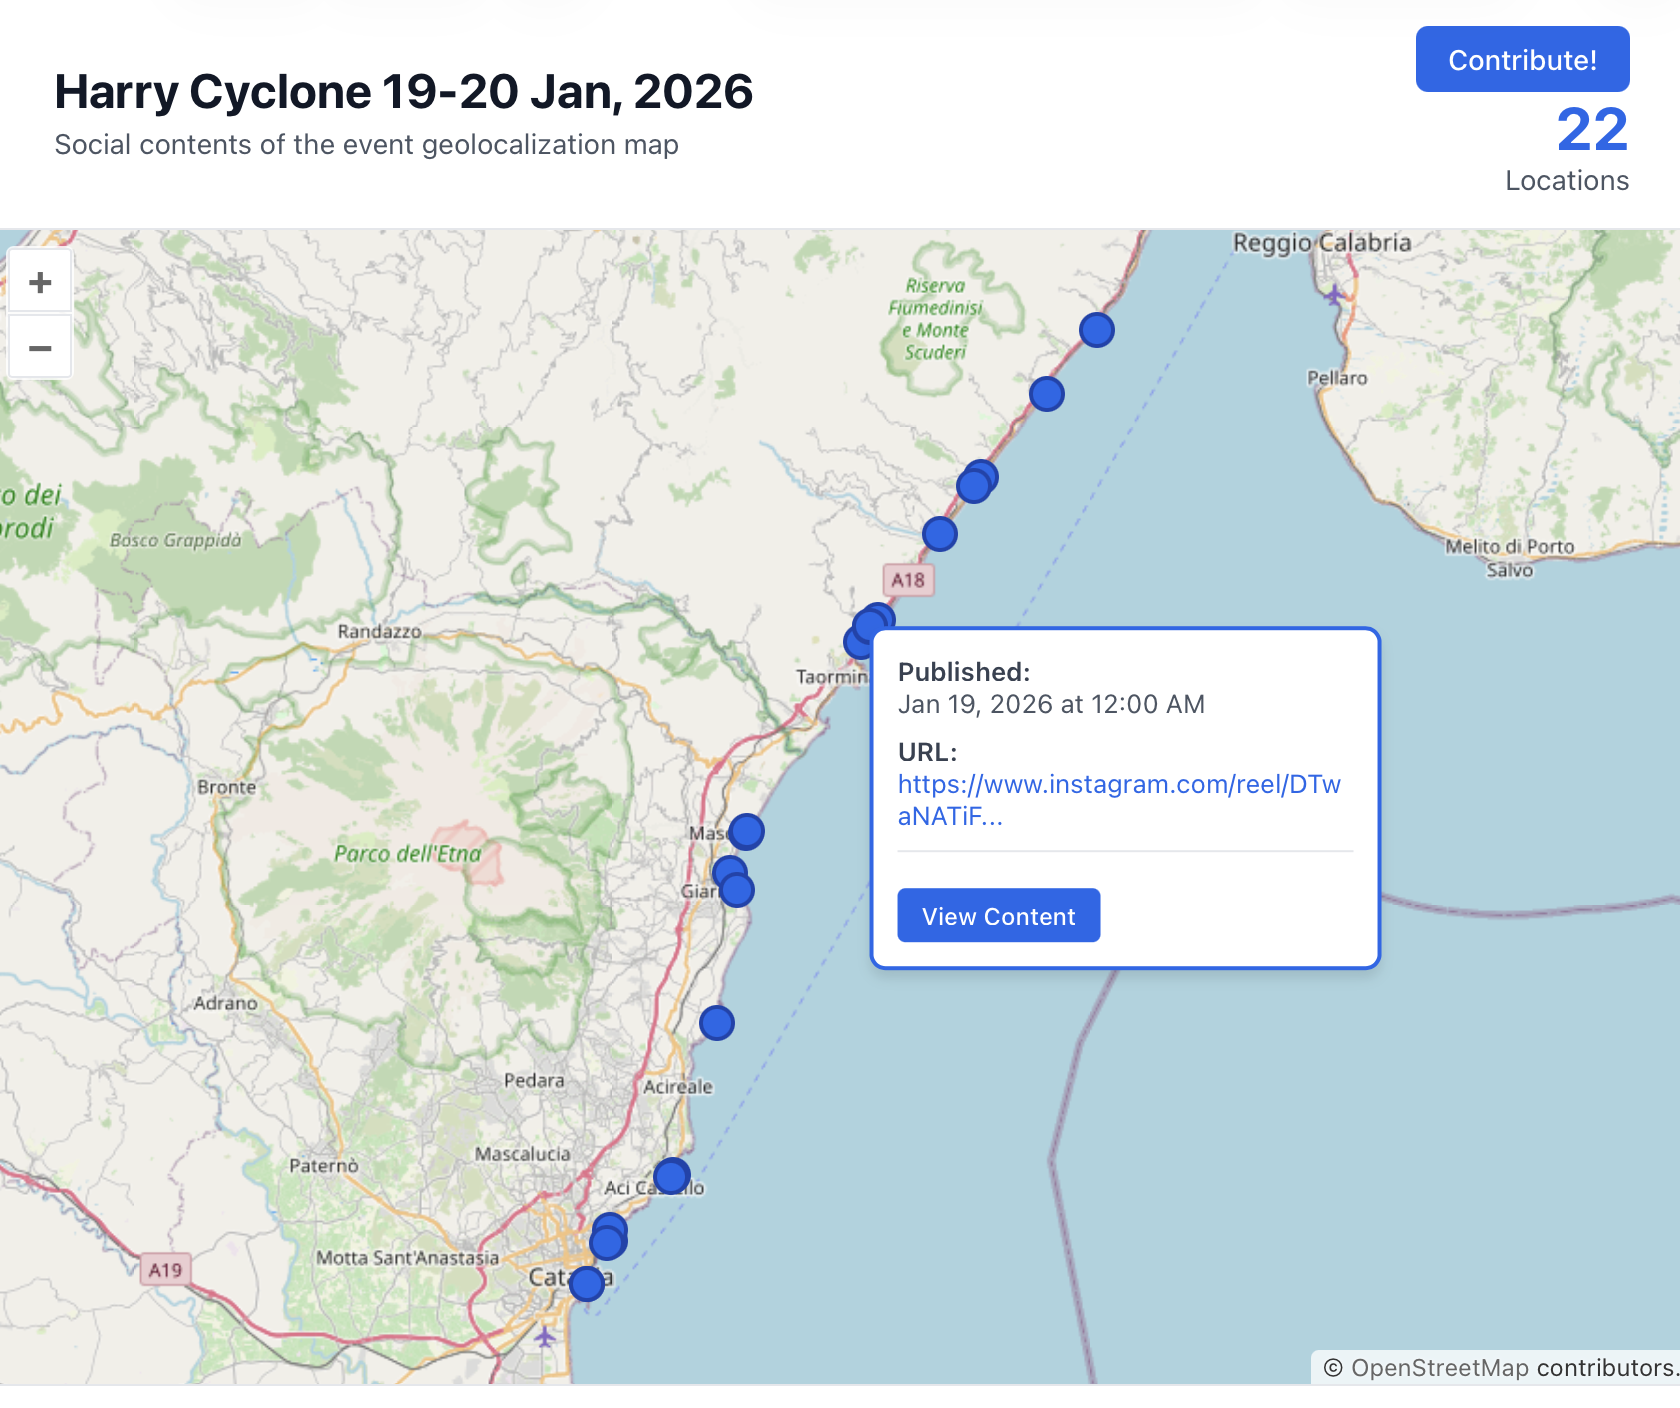
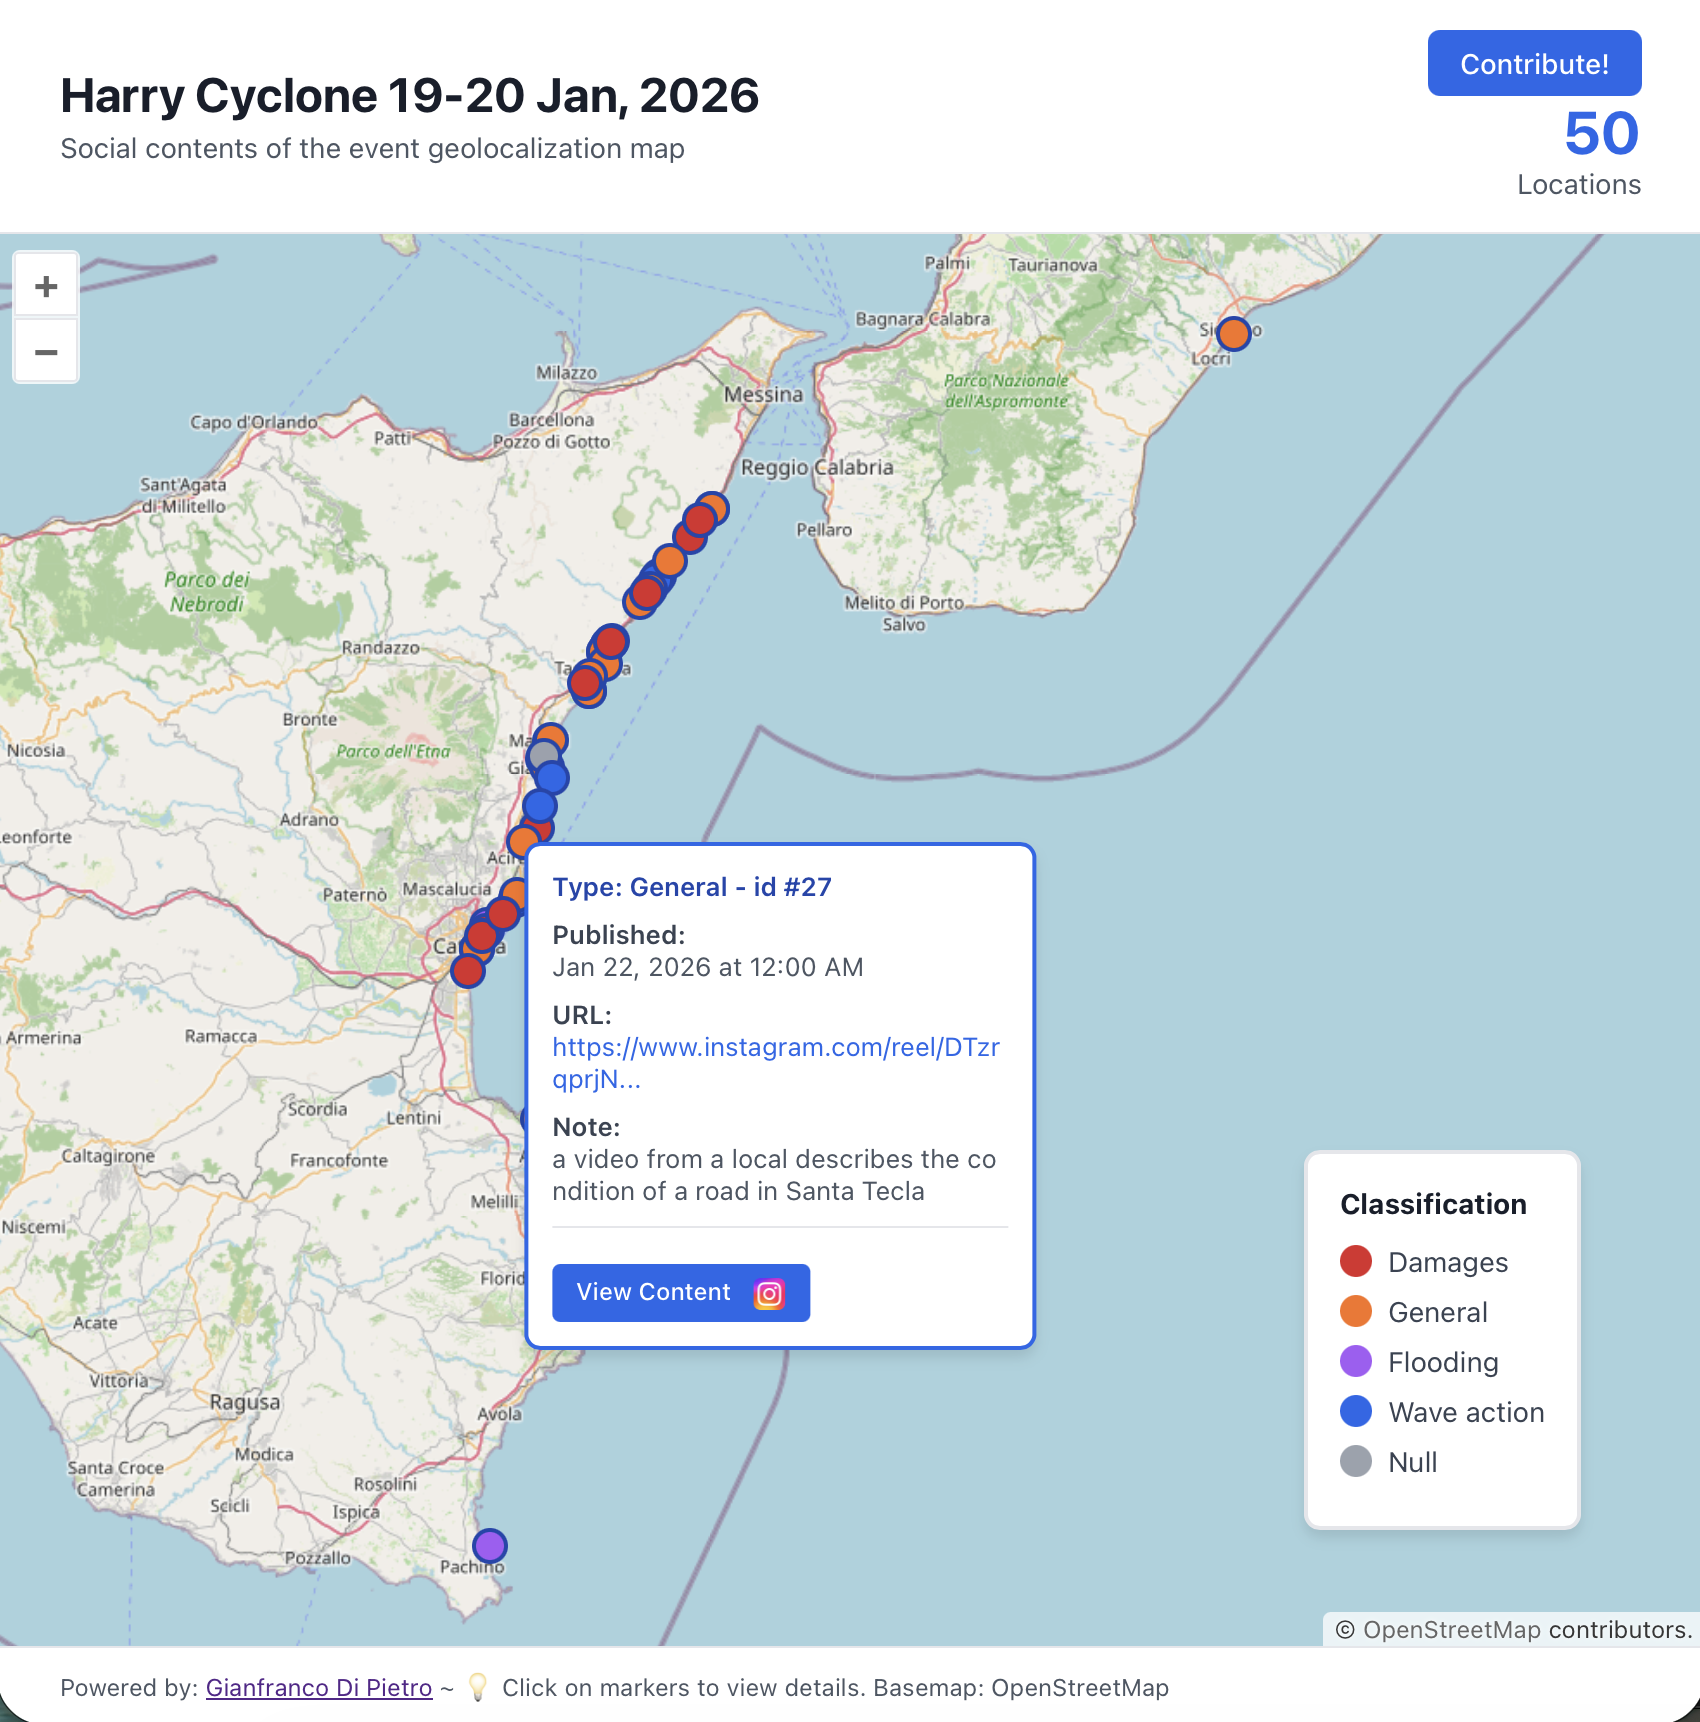
Update README with content classification and improve local run instructions; remove outdated screenshot

diff --git a/README.md b/README.md
@@ -2,10 +2,9 @@
 
 **Event Date:** January 19-20, 2026  
 **Location:** Ionian Coast
+# [GO to the map!](https://gianfrancodp.github.io/harry-sicily/home.html)
 
 ![screenshot](readme_assets/screenshot.png)
-
-# [GO to the map!](https://gianfrancodp.github.io/harry-sicily/home.html)
 
 A collaborative WebGIS project designed to map and visualize social media testimonials (videos, photos, posts) regarding the "Harry Cyclone" event.
 
@@ -43,6 +42,7 @@ If you have found a social media post relevant to the event, please follow these
     When you click on the map, a form will appear. Please fill in the following fields:
     * `pkuid`: Assign a unique integer ID (increment the last known ID).
     * `URL`: The full link to the social media post (e.g., Facebook Reel, Instagram Video).
+    * `Type`: A classification of the content
     * `Data_pubblicazione_URL`: The date/time of the post in ISO format (e.g., `2026-01-20T16:59:30`).
     * `note`: (Optional) Brief description or credits (e.g., "Photo by ANSA").
 5. **Save Changes**:
@@ -56,10 +56,12 @@ If you have found a social media post relevant to the event, please follow these
 
 We are also open to improvements for the visualization interface!
 The project uses:
+
 * **HTML5 / CSS3**
 * **OpenLayers v10.7.0** (JS Library)
 
 If you want to improve the UI, add filters, or fix bugs:
+
 1. Edit `home.html`.
 2. Test your changes locally.
 3. Submit a Pull Request describing your changes.
@@ -68,11 +70,19 @@ If you want to improve the UI, add filters, or fix bugs:
 
 ## 🛠️ How to Run Locally
 
-To view the map on your computer, you cannot simply double-click `home.html` because browsers block loading local external files (CORS policy). You need a simple local server.
+To view the map on your computer, you cannot simply double-click `home.html` because browsers block loading local external files (CORS policy). You need a simple local server
 
 **Do you like Python?**
+
 ```bash
 # Run this command in the project folder
 python3 -m http.server
 # Then open http://localhost:8000/home.html in your browser
+```
+
+**Disable web security (not recommended)**
+
+For example if using Google Chrome on MacOS:
+```bash
+open -na "Google Chrome" --args --user-data-dir="/tmp/chrome_dev_test" --disable-web-security
 ```